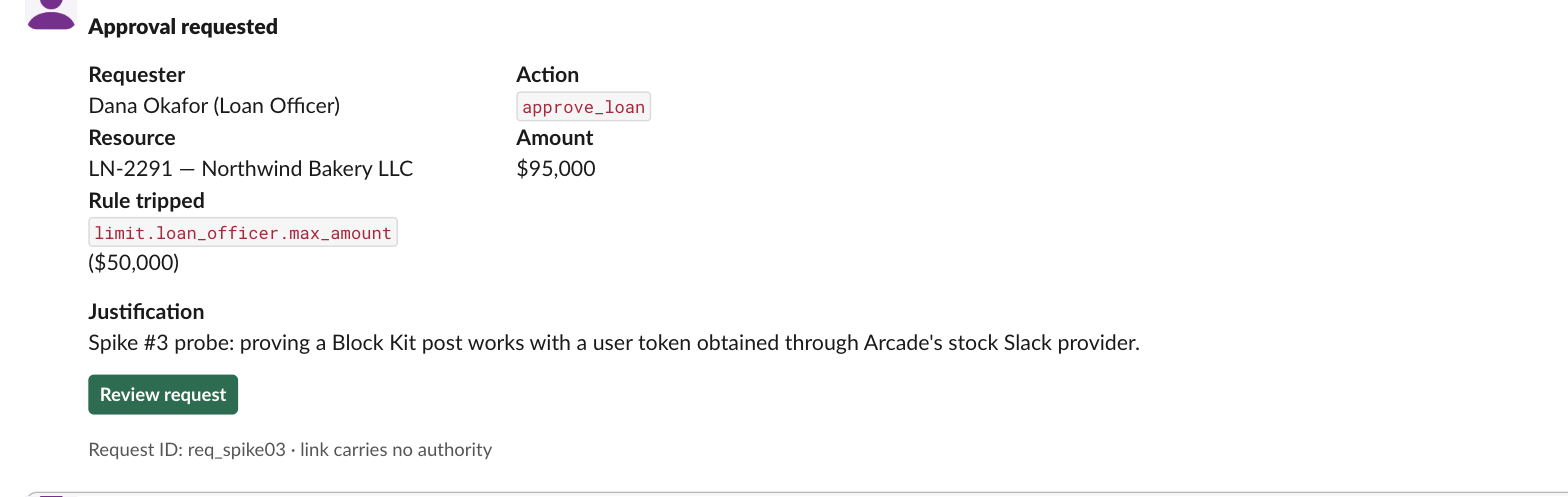
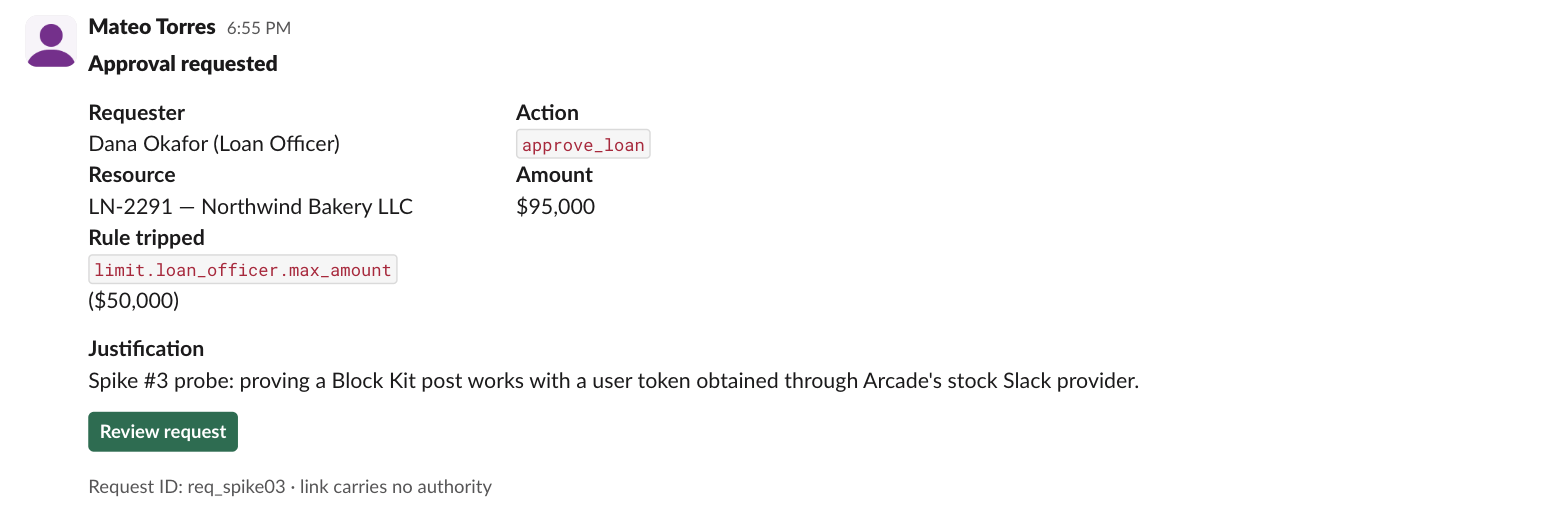
Spike 03: address review — re-crop render, mark unverified claims, probe users:read prerequisite
- Screenshot now includes the author line and timestamp.
- Fresh-user scope list and token refresh labelled as not exercised in
  the confidence table instead of asserted in prose.
- users:read as a prerequisite for users:read.email is now observed:
  Slack answers 'Invalid permissions requested' when the latter is
  requested alone. Added as transcript §8.

diff --git a/docs/spikes/03-slack-scopes.md b/docs/spikes/03-slack-scopes.md
@@ -63,8 +63,10 @@ this demo needs are in that list.
 
 The scope list is a superset of what was requested because Arcade accumulates scopes per user
 per provider across authorizations, and this user had authorized the stock Slack toolkit
-before. Arcade's own `status.scopes` reports the same union. Whoever authorizes fresh will see
-exactly the four requested.
+before. Arcade's own `status.scopes` reports the same union. The authorize URL for a
+never-seen `user_id` carries exactly the four requested scopes under `user_scope`, so a fresh
+user should end up with exactly those four, but no fresh Slack account was available to
+confirm the token's final scope list. Marked as unverified below.
 
 ### Each scope, exercised
 
@@ -79,9 +81,9 @@ approver's email to a Slack ID, open the DM, post the Block Kit message.
 
 ### It renders as the requester
 
-The message shows in Slack under the authorizing user's name and avatar, with the full Block
-Kit layout (header, two-column fields, justification, a link button, a context footer). No
-"APP" badge next to the name. Screenshot in
+The message shows in Slack under the authorizing user's name, avatar and timestamp, with the
+full Block Kit layout (header, two-column fields, justification, a link button, a context
+footer). No "APP" badge next to the name. Screenshot in
 [`evidence/03-slack-block-kit-render.png`](evidence/03-slack-block-kit-render.png).
 
 One thing to know: the `chat.postMessage` response carries `bot_id`, `app_id` and a
@@ -94,9 +96,14 @@ renders it as the user. It does not mean the post went out as a bot.
 - **Post as the requester.** Fetch the requester's Slack token from Arcade at call time
   through the tool's `context.authorization.token`, declaring the `Slack` auth requirement
   with scopes `chat:write`, `im:write`, `users:read`, `users:read.email` on the tool. Do not
-  cache the token: it is a rotating token with a ~12 h life, and Arcade refreshes it.
-- **`users:read` must be requested alongside `users:read.email`.** Slack requires the former
-  for the latter to be grantable. Issue #3 listed three scopes; the tool needs four.
+  cache the token: `auth.test` reports a ~12 h life. Arcade's provider model is that it
+  holds the refresh token and renews on demand, but renewal past expiry was not observed in
+  this spike (see the confidence table). If #18 sees `token_expired` from Slack, this is the
+  first place to look.
+- **`users:read` must be requested alongside `users:read.email`.** Observed: an authorize
+  request for `users:read.email` alone produced a Slack error page, "Arcade.dev could not be
+  installed. Invalid permissions requested", before any consent screen (transcript §8).
+  Issue #3 listed three scopes; the tool needs four.
 - **Every persona that can trigger act 2 must authorize Slack once.** With the design's
   persona switcher over real emails, that means Dana's real account authorizes once and the
   token is bound to her `user_id`. Riley and Morgan need no Slack authorization to *receive*
@@ -138,5 +145,8 @@ requester never authorizes anything, and the delegated-auth beat of act 2 is los
 | `chat.postMessage` with `blocks` succeeds with that token | ✅ `ok: true`, rendered |
 | Renders as the user, not a bot | ✅ screenshot |
 | `users.lookupByEmail` and `conversations.open` work with the same token | ✅ |
+| Slack rejects `users:read.email` without `users:read` | ✅ "Invalid permissions requested" on the consent redirect, nothing granted |
+| Exact scope list on a token for a user with **no prior** Arcade Slack grant | ⬜ **not exercised** — both runs used a user holding the wider stock-toolkit grant. The authorize URL for a never-seen `user_id` carries exactly the four scopes, so the token type is settled; only the final list is unconfirmed |
+| Arcade refreshes the rotating token past its ~12 h expiry | ⬜ **not observed** — a re-run 30 min later returned the same auth record with `expires_in` counting down, consistent but not proof |
 | Opening a DM with a *different* user (the approver) | ⬜ **not exercised** — tested against self to avoid messaging a colleague. Slack's `im:write` covers any workspace member; the call is identical |
 | Custom-app and bot fallbacks | ⬜ **not exercised** — written from Arcade's published provider reference |

diff --git a/docs/spikes/evidence/03-slack-scopes-transcript.md b/docs/spikes/evidence/03-slack-scopes-transcript.md
@@ -169,4 +169,29 @@ message as the user. `missing_charset` is a warning about the request `Content-T
 ![Block Kit message rendered in the ArcadeDevTest DM as Mateo Torres](03-slack-block-kit-render.png)
 
 Header, two-column fields, justification section, green link button and context footer all
-render. The author line reads "Mateo Torres" with the user's avatar and no app badge.
+render. The author line reads "Mateo Torres 6:55 PM" with the user's avatar and no APP badge.
+
+## 8. Scope prerequisite probe — `users:read.email` without `users:read`
+
+Run after review, same project. A throwaway `user_id` so nothing was granted to a real user.
+
+`POST https://api.arcade.dev/v1/auth/authorize`
+
+```json
+{
+  "user_id": "spike03-scope-probe@example.invalid",
+  "auth_requirement": { "provider_id": "slack", "oauth2": { "scopes": ["users:read.email"] } }
+}
+```
+
+Arcade returned `status: pending` and a URL ending in `user_scope=users%3Aread.email%2C`.
+Opening it, Slack redirected to the workspace's `/oauth` page and rendered an error instead of
+a consent screen:
+
+```
+Arcade.dev could not be installed.
+Error details: Invalid permissions requested
+```
+
+No consent was shown and nothing was granted. Slack enforces `users:read` as a prerequisite of
+`users:read.email` at the authorize step, so #18 must request both.
